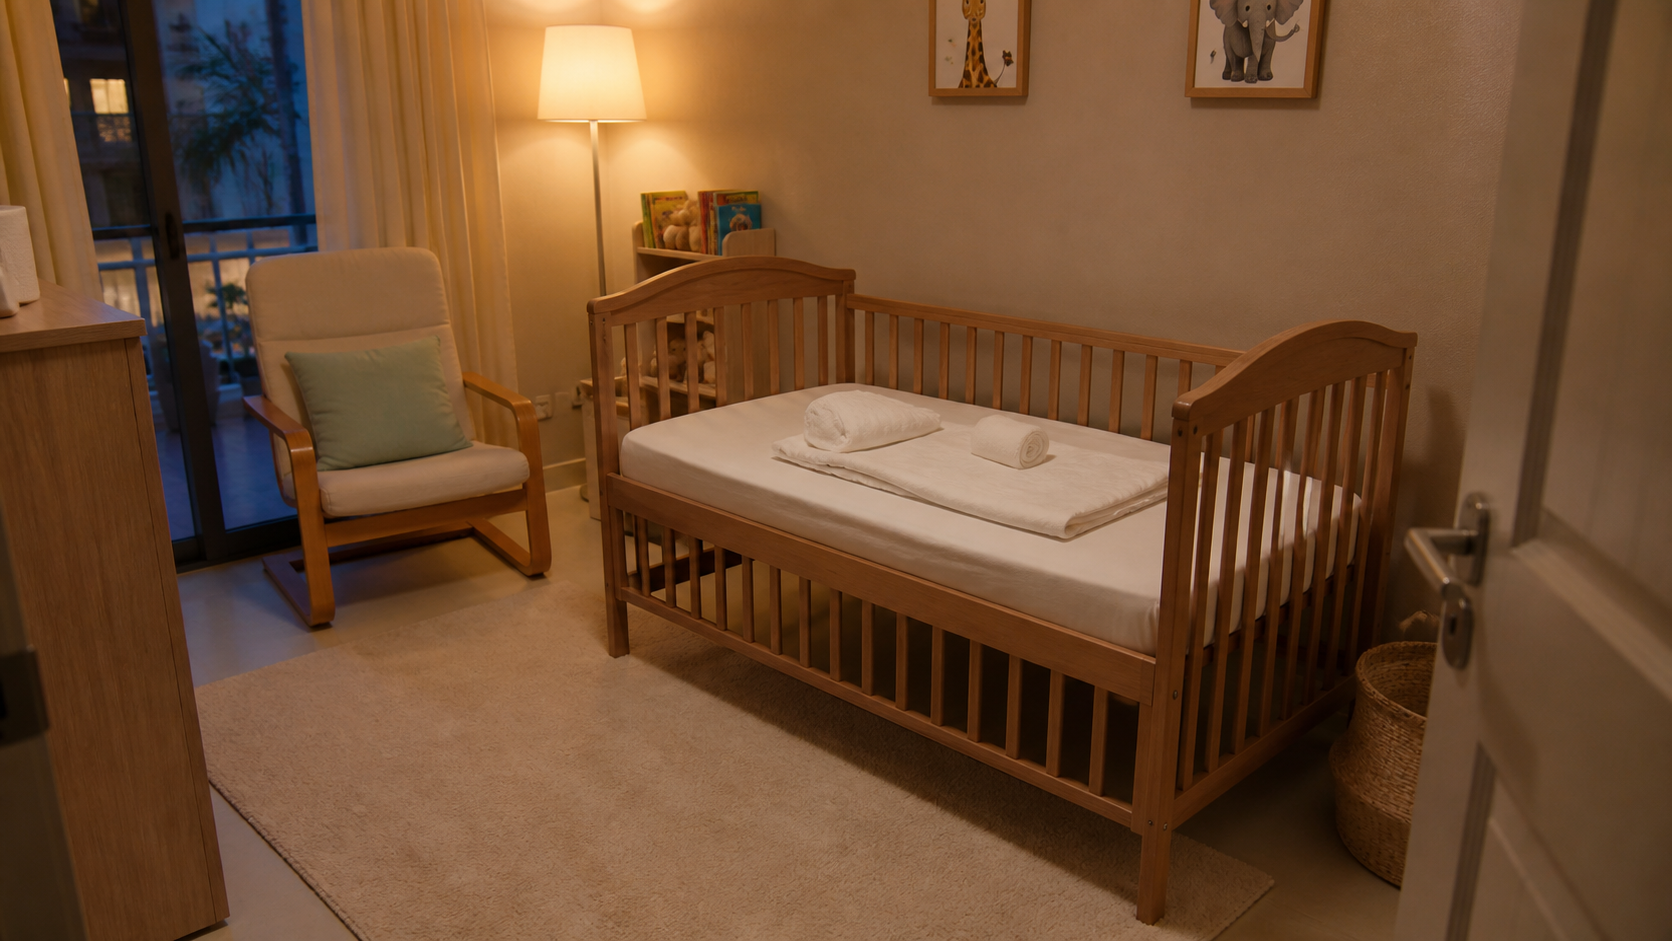
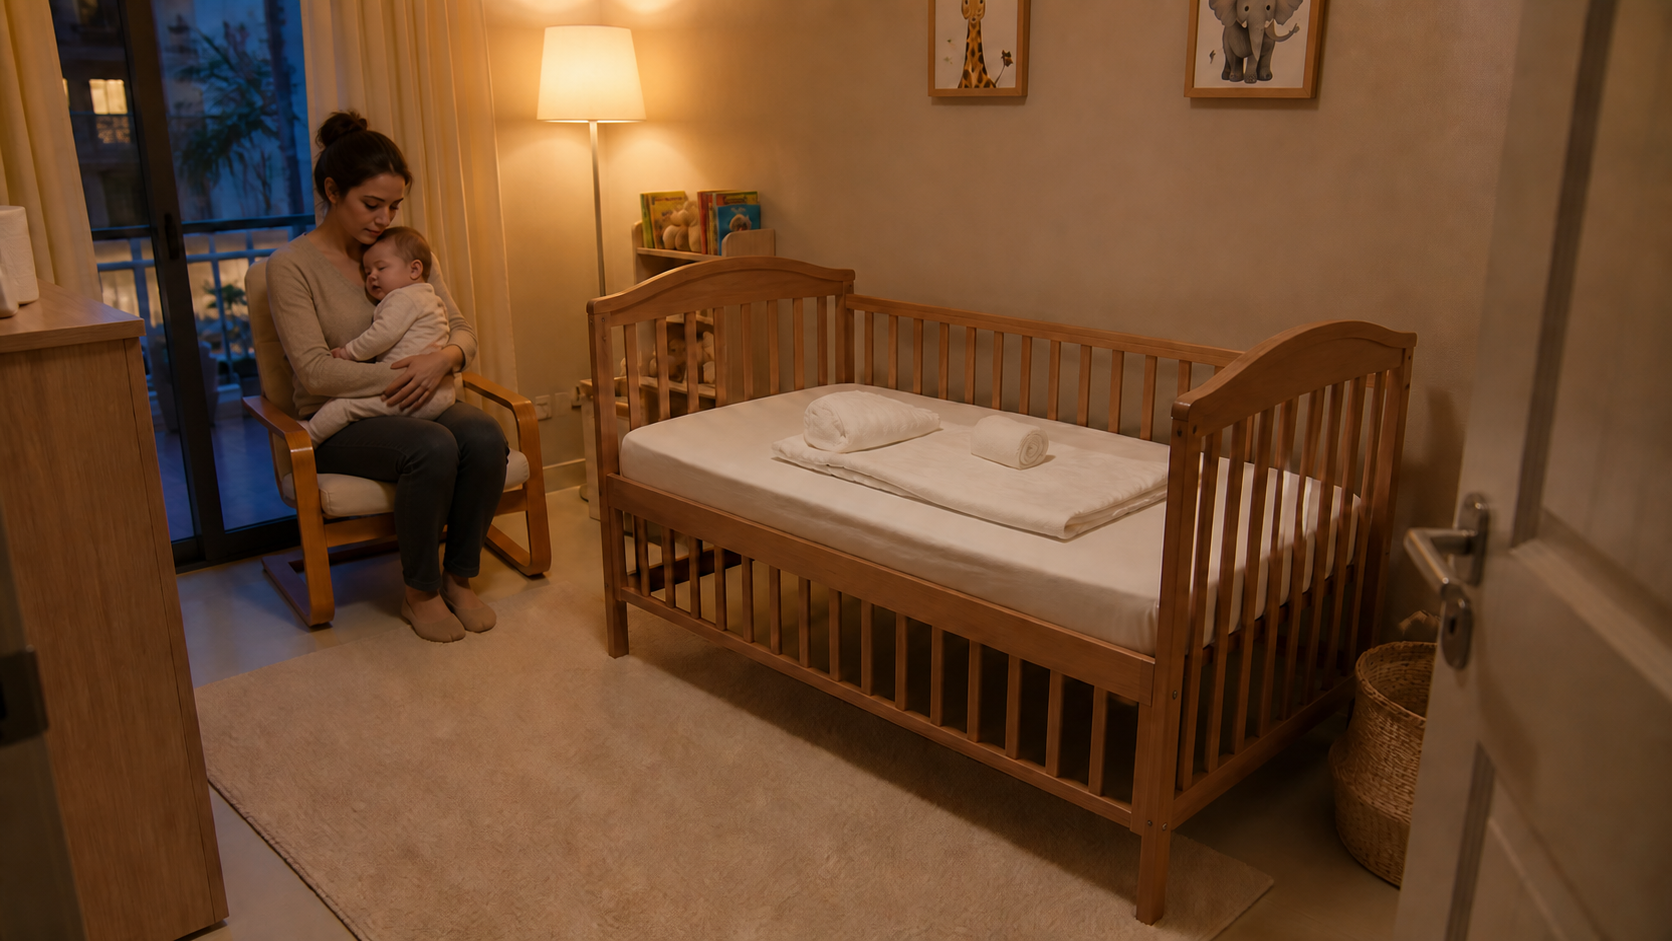
fix(qa): ISSUE-006 — align the infant arrival scene

diff --git a/src/components/SceneSurveyPanel.tsx b/src/components/SceneSurveyPanel.tsx
@@ -22,7 +22,7 @@ import { Button } from '@/components/ui/button';
 import { Card, CardContent, CardHeader, CardTitle } from '@/components/ui/card';
 import { Badge } from '@/components/ui/badge';
 import { useVoiceNarration } from '@/hooks/useVoiceNarration';
-import { inferSceneImage, sceneImageNeedsPatientOverlay } from '@/lib/sceneImageSelection';
+import { caseSceneNeedsPatientOverlay, inferSceneImage } from '@/lib/sceneImageSelection';
 import { patientAgeBand, patientAgeScale } from '@/lib/patientAgePresentation';
 import { dispatchAccessNotes, mandatoryScenePpe, visibleSceneHazards } from '@/lib/sceneSafety';
 import {
@@ -221,9 +221,9 @@ function getInjuryScenePosition(injury: BodyInjury, index: number): { x: number;
 // Leading demographic / filler tokens to peel off a complaint clause. Looped
 // so multi-word leads ("Elderly man …", "32-year-old female …") fully clear.
 const COMPLAINT_LEAD_STRIPPERS: RegExp[] = [
-  /^\s*\d+\s*[-\s]?\s*(?:year|yr)s?[-\s]?old\b\s*/i,
+  /^\s*\d+\s*[-\s]?\s*(?:year|yr|month|mo)s?[-\s]?old\b\s*/i,
   /^\s*\d+\s*(?:yo|y\/o|y)\b\s*/i,
-  /^\s*(?:male|female|man|woman|boy|girl|patient|pt|adult|elderly|young|older|old|teenage|teenager|infant|toddler|child|baby)\b\s*/i,
+  /^\s*(?:male|female|man|woman|boy|girl|patient|pt|adult|elderly|young|older|old|teenage|teenager|infant|toddler|child|baby|parents?|mother|father|caller)\b\s*/i,
   // grammatical fillers that would double up with the sentence's "with"
   /^\s*(?:with|having|complaining of|c\/o|reports?|reporting|presents? with|presenting with|now|new|sudden onset of)\b\s*/i,
 ];
@@ -260,7 +260,7 @@ function shortComplaint(callReason?: string): string {
     prev = s;
     for (const re of COMPLAINT_LEAD_STRIPPERS) s = s.replace(re, '');
   } while (s !== prev);
-  return s.replace(/[.!?]+$/, '').trim();
+  return s.replace(/["“”]/g, '').replace(/[.!?]+$/, '').trim();
 }
 
 /**
@@ -271,7 +271,7 @@ function shortComplaint(callReason?: string): string {
 function isVerbLedComplaint(complaint: string): boolean {
   const first = (complaint.split(/\s+/)[0] || '').toLowerCase();
   const verbs = new Set(['fell', 'fallen', 'collapsed', 'took', 'taken', 'struck', 'hit', 'stabbed', 'burned', 'burnt', 'found', 'cut', 'crashed', 'ingested', 'overdosed', 'swallowed', 'choking', 'choked', 'struggling', 'passed', 'slipped', 'tripped', 'fitting', 'seizing', 'unable', 'feels', 'feeling']);
-  const stateLed = /^(?:increasingly|progressively|suddenly|acutely|becoming|appears?|unwell|confused|drowsy|lethargic|unresponsive|agitated)\b/i.test(complaint);
+  const stateLed = /^(?:increasingly|progressively|suddenly|acutely|becoming|appears?|unwell|confused|drowsy|lethargic|unresponsive|agitated|not breathing)\b/i.test(complaint);
   return verbs.has(first) || stateLed || (/ed$/.test(first) && first.length > 3);
 }
 
@@ -424,7 +424,15 @@ function buildSceneCallouts(caseData: CaseScenario, tone: SceneTone, sceneImage:
     ];
   }
 
-  if (sceneImageNeedsPatientOverlay(sceneImage)) {
+  if (caseData.id === 'cardiac-017') {
+    return [
+      { id: 'patient', label: 'Patient', value: position, icon: Eye, x: 31, y: 37 },
+      { id: 'family', label: 'Mother', value: bystanders, icon: Users, x: 18, y: 54 },
+      { id: 'cot', label: 'Cot and access', value: caseData.sceneInfo?.environment || 'Warm nursery', icon: Search, x: 68, y: 54, align: 'right' },
+    ];
+  }
+
+  if (caseSceneNeedsPatientOverlay(caseData, sceneImage)) {
     const patientPosition = sceneImage.includes('y1-010-park-bicycle')
       ? { x: 62, y: 57 }
       : sceneImage.includes('paediatric-pool-rescue')
@@ -1187,7 +1195,7 @@ function inferPatientVisualCue(caseData: CaseScenario): string {
     caseData.abcde?.disability?.findings?.join(' '),
   ].filter(Boolean).join(' ').toLowerCase();
 
-  if (/cardiac arrest|not breathing|no normal breathing|apneic|apnoeic|pulseless/.test(text)) {
+  if (/cardiac arrest|not breathing(?!\s+properly)|no normal breathing|apneic|apnoeic|pulseless/.test(text)) {
     return 'Supine and unresponsive; no normal breathing visible';
   }
   if (/right upper quadrant|ruq|liver|paracetamol|acetaminophen/.test(text)) {
@@ -1519,7 +1527,7 @@ function SceneArrivalVisual({
               <ProceduralPatient caseData={caseData} tone={tone} />
             </>
           )}
-          {sceneImageNeedsPatientOverlay(sceneImage) && (
+          {caseSceneNeedsPatientOverlay(caseData, sceneImage) && (
             <ProceduralPatient caseData={caseData} tone={tone} sceneImage={sceneImage} />
           )}
           {sceneImage && (

diff --git a/src/lib/sceneImageSelection.ts b/src/lib/sceneImageSelection.ts
@@ -197,6 +197,16 @@ export function sceneImageNeedsPatientOverlay(src: string | null): boolean {
   return Boolean(src && PATIENT_OVERLAY_SCENE_ASSETS.has(src));
 }
 
+/**
+ * Case-aware overlay decision for scene rendering. The cardiac-017 nursery
+ * plate now contains the age-correct infant held by her mother, so adding the
+ * legacy procedural figure would duplicate the patient. The one-argument
+ * asset predicate remains available for registry validation.
+ */
+export function caseSceneNeedsPatientOverlay(caseData: CaseScenario, src: string | null): boolean {
+  return caseData.id !== 'cardiac-017' && sceneImageNeedsPatientOverlay(src);
+}
+
 const CURRENT_CONTEXT_OVERRIDES: Record<string, string> = {
   // Closest currently available images while the exact prompt targets above
   // are being generated. These remove obvious scene/context contradictions.
